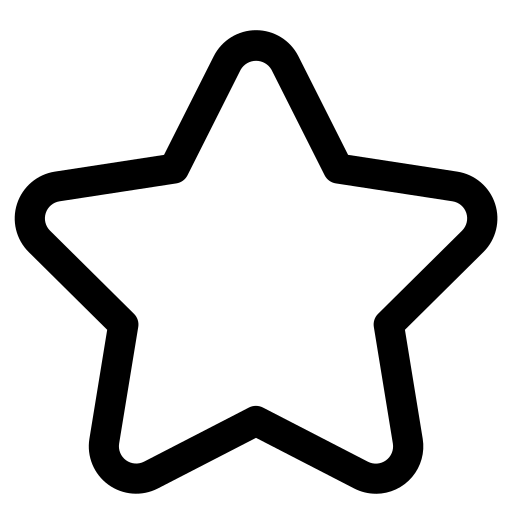
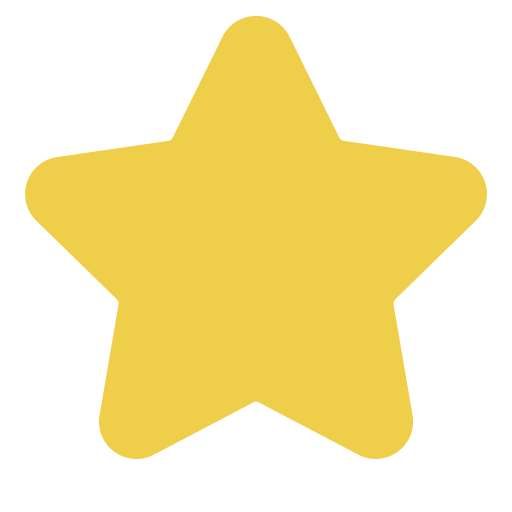
22/12/06

diff --git a/kanji-app/src/main/resources/templates/kanji/list.html b/kanji-app/src/main/resources/templates/kanji/list.html
@@ -3,7 +3,7 @@
 <head>
 <meta charset="UTF-8">
 <style type="text/css">
-.kanji_favorites_regist img{
+.kanji_favorites_regist img, .kanji_favorites_regist2 img{
 width : 50px;
 height : 50px;
 }
@@ -13,22 +13,15 @@ height : 50px;
 <script th:inline="javascript">
 /*<![CDATA[*/
 $(document).ready(function(){
-	var fav = /*[[${favorites_list}]]*/
-	var kanji = /*[[${kanji_list}]]*/
-	
-	for(var i = 0; i < fav.length; i++){
 
-	}
-	
-	
 	
 });
 /*]]>*/
 
 /*<![CDATA[*/
 $(function(){
-	$(".kanji_favorites_regist").click(function(e){
-   	
+	$(".kanji_favorites_regist2").click(function(e){
+   		var click_favorites = $(this);
 		var favorites = $(this).siblings().first().text();
 		
 			$.ajax({
@@ -38,7 +31,29 @@ $(function(){
 					'kanji_id' : favorites  
 				},
 				success : function(data) {
-					alert("성공");
+					 click_favorites.children().attr("src","/images/star-1.png");
+					 click_favorites.attr("class","kanji_favorites_regist");
+				},
+				error : function(xhr, status) {
+					alert("실패");
+				}
+			});
+	
+	});
+		$(".kanji_favorites_regist").click(function(e){
+			
+   		var click_favorites = $(this);
+		var favorites = $(this).siblings().first().text();
+		
+			$.ajax({
+				type : 'POST',
+				url : '/favorites/delete',
+				data : { 
+					'kanji_id' : favorites  
+				},
+				success : function(data) {
+					 click_favorites.children().attr("src","/images/star-2.png");
+					 click_favorites.attr("class","kanji_favorites_regist2");
 				},
 				error : function(xhr, status) {
 					alert("실패");
@@ -61,9 +76,13 @@ $(function(){
 	
 	</div>
 	<div class = "kanji_list_center_wrap">	
-		<div th:each ="list : ${kanji_list}">
-			
-			<div class = "kanji_favorites_regist"><img th:src="@{/images/star-1.png}"></div>
+		<div th:each ="list , i : ${kanji_list}">
+			<div  class = "kanji_favorites_regist" th:if="${list.kanjiId} == ${favorites_list[i.index]}">
+				<img th:src="@{/images/star-1.png}">
+			</div>
+			<div  class = "kanji_favorites_regist2" th:unless="${list.kanjiId}==${favorites_list[i.index]}">
+				<img th:src="@{/images/star-2.png}">
+			</div>
 			<div th:text="${list.kanjiId}"></div>
 			<div th:text="${list.kanjiCharacter}"></div>
 			<div th:text="${list.kanjiSoundMean}"></div>

diff --git a/kanji-app/src/main/java/org/kanji/common/controller/KanjiController.java b/kanji-app/src/main/java/org/kanji/common/controller/KanjiController.java
@@ -26,6 +26,7 @@ import org.springframework.web.bind.annotation.GetMapping;
 import org.springframework.web.bind.annotation.RequestMapping;
 
 import lombok.AllArgsConstructor;
+import lombok.Data;
 
 @Controller
 @RequestMapping("/kanji")
@@ -161,19 +162,34 @@ public class KanjiController {
 						&& fav.get().get(i).getKanji().getKanjiId() <= kanji_list.get(kanji_list.size()-1).getKanjiId()) {
 					favorites_num.add(fav.get().get(i).getKanji().getKanjiId());
 				}
-				
-				
+
 			}
-			
-			
-			
+
 		}
 		
-		model.addAttribute("favorites_list",favorites_num);
+		List<Integer> favorites_num2 = new ArrayList<>();
+		
+		for (int i = 0; i < kanji_list.size(); i++) {
+			favorites_num2.add(null);
+		}
+		
+		for (int i = 0; i < kanji_list.size(); i++) {
+			
+			for(int j = 0; j < favorites_num.size(); j++) {
+				if(kanji_list.get(i).getKanjiId() == favorites_num.get(j)) {
+					favorites_num2.set(i,favorites_num.get(j));
+				}
+			}
+		}
+		
+		for(int i=0; i<favorites_num2.size();i++) {
+			System.out.println(favorites_num2.get(i));
+		}
+		
+		model.addAttribute("favorites_list",favorites_num2);
 		model.addAttribute("kanji_list",kanji_list);
 		model.addAttribute("course_index",course_index);
-		
-		
+
 		
 	}
 	
@@ -243,4 +259,6 @@ public class KanjiController {
 		model.addAttribute("kokai2",kokai2);
 		model.addAttribute("kokai3",kokai3);
 	}
+	
+	
 }

diff --git a/kanji-app/src/main/java/org/kanji/favorites/repository/FavoritesRepository.java b/kanji-app/src/main/java/org/kanji/favorites/repository/FavoritesRepository.java
@@ -20,4 +20,8 @@ public interface FavoritesRepository extends JpaRepository<Favorites, Integer> {
 	@Query(value = "select * from favorites where member_id = :member_id",nativeQuery = true)
 	Optional<List<Favorites>> readFavoritesList(@Param("member_id")String member_id);
 	
+	@Transactional
+	@Modifying
+	@Query(value = "delete from favorites where member_id = :member_id and kanji_id = :kanji_id",nativeQuery = true)
+	void deleteFavorites(@Param("member_id")String member_id,@Param("kanji_id")int kanji_id);
 }

diff --git a/kanji-app/src/main/java/org/kanji/common/controller/FavoritesController.java b/kanji-app/src/main/java/org/kanji/common/controller/FavoritesController.java
@@ -55,6 +55,21 @@ public class FavoritesController {
 		
 		return "/main";
 	}
+	
+	@PostMapping("delete")
+	public String delete(@Param("kanji_id") int kanji_id, HttpServletRequest request) {
+
+		HttpSession session = request.getSession();
+			
+		Member login_member = (Member)session.getAttribute("login_member");
+
+		Kanji kanji = new Kanji();
+		kanji.setKanjiId(kanji_id);
+		
+		fService.deleteFavorites(login_member, kanji);
+		
+		return "/main";
+	}
 
 }
 

diff --git a/kanji-app/src/main/java/org/kanji/favorites/service/FavoritesServiceImpl.java b/kanji-app/src/main/java/org/kanji/favorites/service/FavoritesServiceImpl.java
@@ -41,4 +41,11 @@ public class FavoritesServiceImpl implements FavoritesService {
 		// TODO Auto-generated method stub
 		return fRepo.readFavoritesList(member.getMemberId());
 	}
+	
+	@Override
+	public void deleteFavorites(Member member, Kanji kanji) {
+		
+		fRepo.deleteFavorites(member.getMemberId(), kanji.getKanjiId());
+		
+	}
 }

diff --git a/kanji-app/src/main/java/org/kanji/favorites/service/FavoritesService.java b/kanji-app/src/main/java/org/kanji/favorites/service/FavoritesService.java
@@ -11,4 +11,5 @@ public interface FavoritesService {
 	public void registFavorites(Favorites fav);
 	public Optional<Favorites> readFavorites(Member member, Kanji kanji);
 	public Optional<List<Favorites>> readFavoritesList(Member member);
+	public void deleteFavorites(Member member, Kanji kanji);
 }
